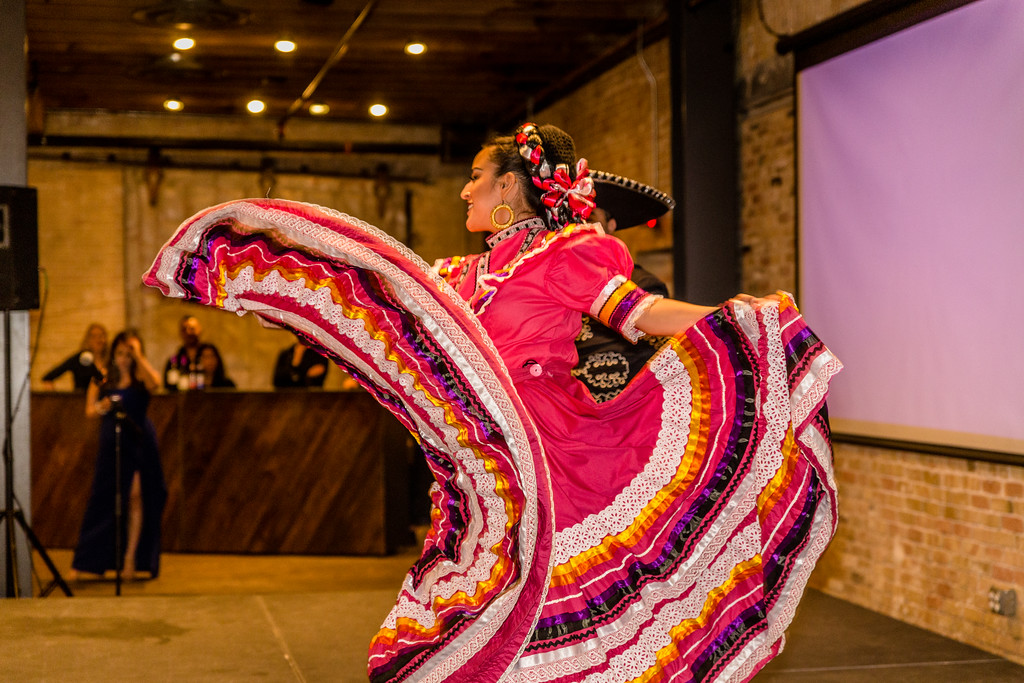
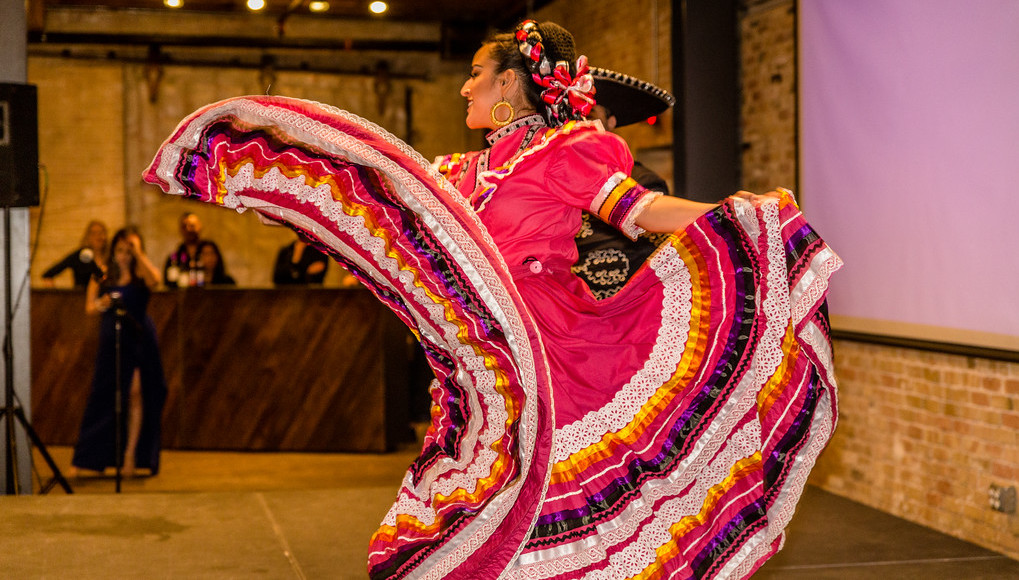
changed gallery img orientation, mod img to rem

diff --git a/src/Components/Pages/Community/EventsGallery.js b/src/Components/Pages/Community/EventsGallery.js
@@ -21,25 +21,25 @@ const EventsGallery = () => {
       {/* 2019 Awards */}
       <div
         style={{ backgroundImage: `url(${Event2019A})` }}
-        className="intern-img md:h-full bg-center bg-no-repeat"
+        className="gallery-img bg-cover bg-top bg-no-repeat"
       >
         <p className="legend">2019 Corazón Awards</p>
       </div>
       <div
         style={{ backgroundImage: `url(${Event2019B})` }}
-        className="w-full h-48 md:h-screen bg-cover bg-center bg-no-repeat"
+        className="gallery-img bg-cover bg-topbg-no-repeat"
       >
         <p className="legend">2019 Corazón Awards</p>
       </div>
       <div
         style={{ backgroundImage: `url(${Event2019C})` }}
-        className="w-full h-48 md:h-screen bg-cover bg-center-top bg-no-repeat"
+        className="gallery-img bg-cover bg-top bg-no-repeat"
       >
         <p className="legend">2019 Corazón Awards</p>
       </div>
       <div
         style={{ backgroundImage: `url(${Event2019D})` }}
-        className="w-full h-48 md:h-screen bg-cover bg-center bg-no-repeat"
+        className="gallery-img bg-cover bg-topbg-no-repeat"
       >
         <p className="legend">2019 Corazón Awards</p>
       </div>
@@ -47,19 +47,19 @@ const EventsGallery = () => {
       {/* 2018 Awards */}
       <div
         style={{ backgroundImage: `url(${Event2018A})` }}
-        className="w-full h-48 md:h-screen bg-cover bg-center bg-no-repeat"
+        className="gallery-img bg-cover bg-top bg-no-repeat"
       >
         <p className="legend">2018 Corazón Awards</p>
       </div>
       <div
         style={{ backgroundImage: `url(${Event2018B})` }}
-        className="w-full h-48 md:h-screen bg-cover bg-center bg-no-repeat"
+        className="gallery-img bg-cover bg-top bg-no-repeat"
       >
         <p className="legend">2018 Corazón Awards</p>
       </div>
       <div
         style={{ backgroundImage: `url(${Event2018C})` }}
-        className="w-full h-48 md:h-screen bg-cover bg-center bg-no-repeat"
+        className="gallery-img bg-cover bg-top bg-no-repeat"
       >
         <p className="legend">2018 Corazón Awards</p>
       </div>
@@ -67,25 +67,25 @@ const EventsGallery = () => {
       {/* 2017 Awards */}
       <div
         style={{ backgroundImage: `url(${Event2017A})` }}
-        className="w-full h-48 md:h-screen bg-cover bg-center-top bg-no-repeat"
+        className="gallery-img bg-cover bg-top bg-no-repeat"
       >
         <p className="legend">2017 Corazón Awards</p>
       </div>
       <div
         style={{ backgroundImage: `url(${Event2017B})` }}
-        className="w-full h-48 md:h-screen bg-cover bg-center-top bg-no-repeat"
+        className="gallery-img bg-cover bg-top bg-no-repeat"
       >
         <p className="legend">2017 Corazón Awards</p>
       </div>
       <div
         style={{ backgroundImage: `url(${Event2017C})` }}
-        className="w-full h-48 md:h-screen bg-cover bg-center-top bg-no-repeat"
+        className="gallery-img bg-cover bg-top bg-no-repeat"
       >
         <p className="legend">2017 Corazón Awards</p>
       </div>
       <div
         style={{ backgroundImage: `url(${Event2017D})` }}
-        className="w-full h-48 md:h-screen bg-cover bg-center-top bg-no-repeat"
+        className="gallery-img bg-cover bg-top bg-no-repeat"
       >
         <p className="legend">2017 Corazón Awards</p>
       </div>

diff --git a/src/Components/Pages/pages.css b/src/Components/Pages/pages.css
@@ -76,34 +76,43 @@
       '2xl': {'min': '1536px'}, */
 @media (max-width: 650px) {
   .banner-image {
-    height: 350px;
+    height: 22rem;
   }
   .banner-text {
-    height: 350px;
+    height: 22rem;
   }
   .intern-img {
-    height: 350px;
+    height: 22rem;
+  }
+  .gallery-img {
+    height: 22rem;
   }
 }
 @media (min-width: 651px) {
   .banner-image {
-    height: 700px;
+    height: 43.75rem;
   }
   .banner-text {
-    height: 700px;
+    height: 43.75rem;
   }
   .intern-img {
-    height: 700px;
+    height: 43.75rem;
+  }
+  .gallery-img {
+    height: 43.75rem;
   }
 }
 @media (min-width: 1054px) {
   .banner-image {
-    height: 550px;
+    height: 34.5rem;
   }
   .banner-text {
-    height: 550px;
+    height: 34.5rem;
   }
   .intern-img {
-    height: 550px;
+    height: 34.5rem;
+  }
+  .gallery-img {
+    height: 38.5rem;
   }
 }
